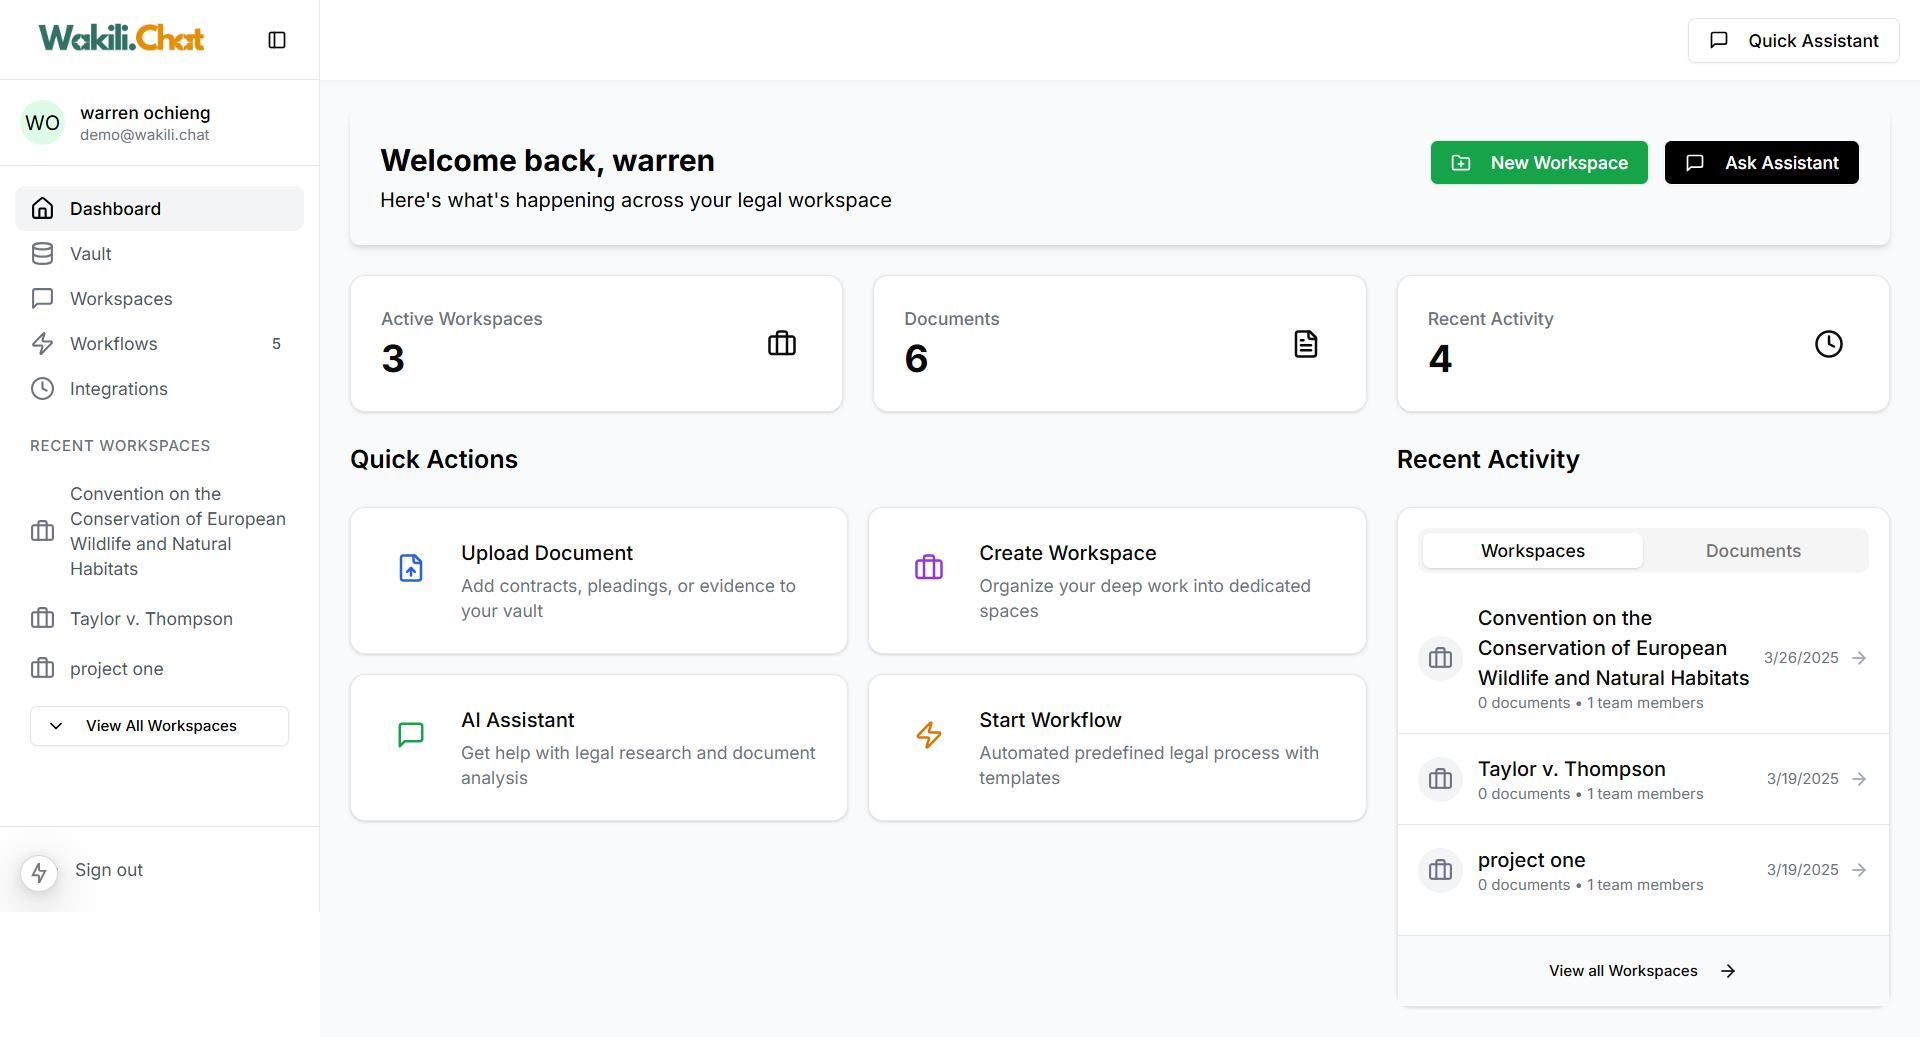
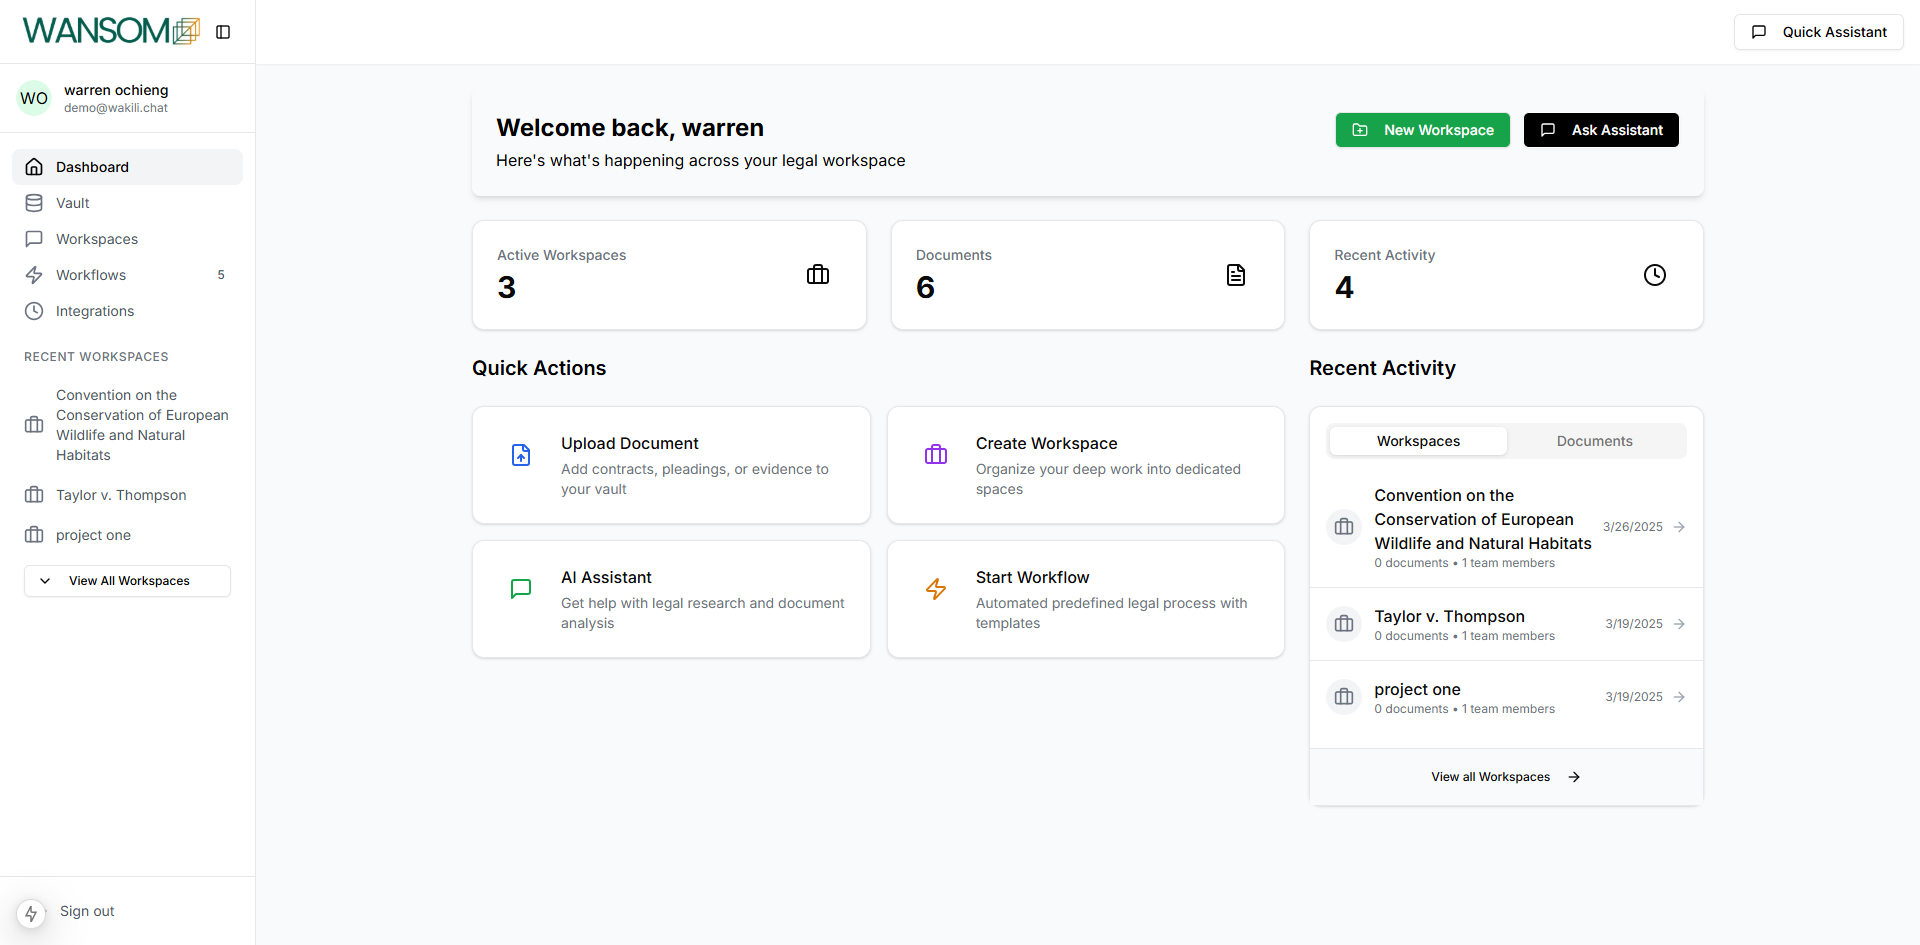
rebrand to wansom

diff --git a/src/components/layout/Navbar.tsx b/src/components/layout/Navbar.tsx
@@ -2,15 +2,12 @@
 
 import { useEffect, useState } from 'react'
 import Image from 'next/image'
-import { useRouter } from 'next/navigation'
 import Link from 'next/link'
-import { Sparkles, Menu, X, ChevronDown, ChevronRight } from 'lucide-react'
+import { Sparkles, Menu, X } from 'lucide-react'
 
 const Navbar = () => {
   const [isOpen, setIsOpen] = useState(false)
   const [isScrolled, setIsScrolled] = useState(false)
-  const [lawFirmDropdownOpen, setLawFirmDropdownOpen] = useState(false)
-  const router = useRouter()
 
   // Handle navbar transparency on scroll
   useEffect(() => {
@@ -44,7 +41,7 @@ const Navbar = () => {
     }`}>
       <div className="container mx-auto px-4 py-4 flex justify-between items-center">
         <Link href="/" className="md:hidden">
-          <Image src="/images/logo.png" alt="wakilichat" width={140} height={52} />
+          <Image src="/logo-lg.png" alt="wakilichat" width={140} height={52} />
         </Link>
 
         {/* Mobile menu button */}
@@ -58,7 +55,7 @@ const Navbar = () => {
         {/* Desktop Navigation */}
         <div className="hidden md:flex items-center justify-between flex-grow mx-auto">
         <Link href="/">
-          <Image src="/images/logo.png" alt="wakilichat" width={140} height={52} />
+          <Image src="/logo-lg.png" alt="wakilichat" width={140} height={52} />
         </Link>
 
           <nav className="flex space-x-6">

diff --git a/src/components/layout/Footer.tsx b/src/components/layout/Footer.tsx
@@ -8,7 +8,7 @@ const Footer = () => {
     <div className="w-full max-w-screen-xl mx-auto p-4 md:py-8">
         <div className="sm:flex sm:items-center sm:justify-between">
             <a href="/" className="flex items-center mb-4 sm:mb-0 space-x-3 rtl:space-x-reverse" aria-label="chat with a lawyer">
-                <Image src="/images/logo-light.png" height={150} width={150} alt="Logo" />
+                <Image src="/images/logo-dark.png" height={150} width={150} alt="Logo" />
             </a>
             <ul className="flex flex-wrap items-center mb-6 text-sm font-medium text-white sm:mb-0">
             <li>

diff --git a/src/app/(account)/layout.tsx b/src/app/(account)/layout.tsx
@@ -109,9 +109,9 @@ export default function DashboardLayout({ children }: { children: ReactNode }) {
           {!collapsed && (
             <Link href="/dashboard" className="flex items-center">
               <img 
-                src="/logo-sm.png" 
+                src="/logo-lg.png" 
                 alt="Logo" 
-                className="h-8 w-auto object-contain" 
+                className="h-12 w-auto object-contain" 
               />
             </Link>
           )}

diff --git a/src/components/layout/DashboardLayout.tsx b/src/components/layout/DashboardLayout.tsx
@@ -50,7 +50,7 @@ export default function DashboardLayoutComponent({ children }: { children: React
               
               <Link href="/dashboard" className="flex items-center">
                 <img
-                  src="/logo-sm.png"
+                  src="/logo.png"
                   alt="Logo"
                  
                   className="h-8 w-auto object-contain"
